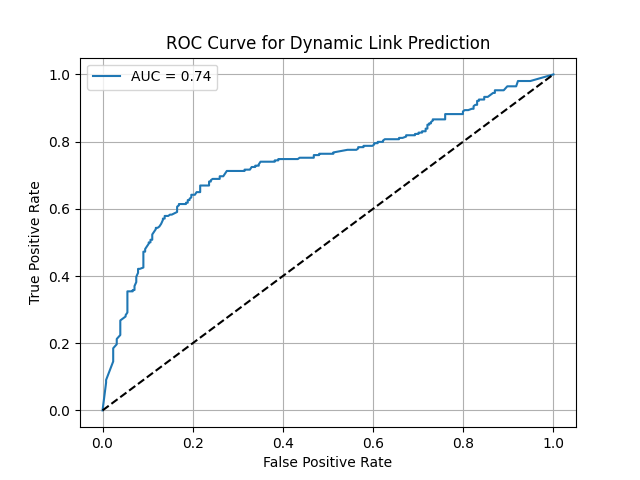
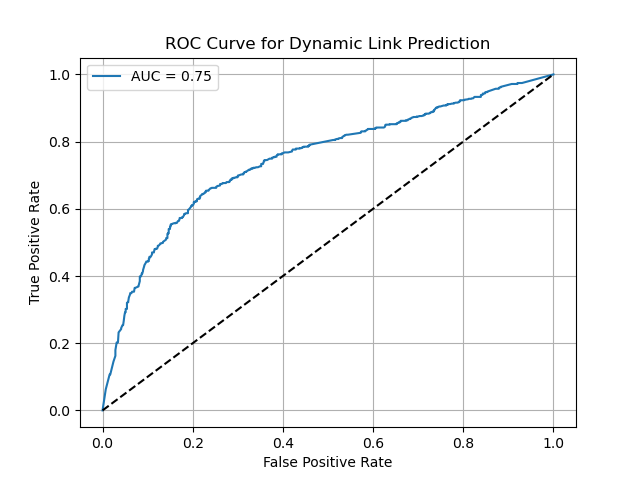
dynamic importaqnces

diff --git a/dynamic_link_prediction.py b/dynamic_link_prediction.py
@@ -7,8 +7,8 @@ import seaborn as sns
 import matplotlib.pyplot as plt
 import pickle
 
-train_months = list(range(0, 16))
-test_months = list(range(16, 17))
+train_months = list(range(0, 14))
+test_months = list(range(14, 17))
 train_files = [f"features/features{m}.csv" for m in train_months]
 test_files = [f"features/features{m}.csv" for m in test_months]
 train_df = pd.concat([pd.read_csv(f) for f in train_files], ignore_index=True)
@@ -51,3 +51,12 @@ plt.legend()
 plt.grid(True)
 plt.savefig("auc.png")
 
+importances = model.feature_importances_
+feature_names = X_train.columns
+plt.figure(figsize=(8, 4))
+sns.barplot(x=importances, y=feature_names)
+plt.title("Feature Importances")
+plt.xlabel("Importance")
+plt.ylabel("Feature")
+plt.tight_layout()
+plt.savefig("plots/dynamicimportances.png")
